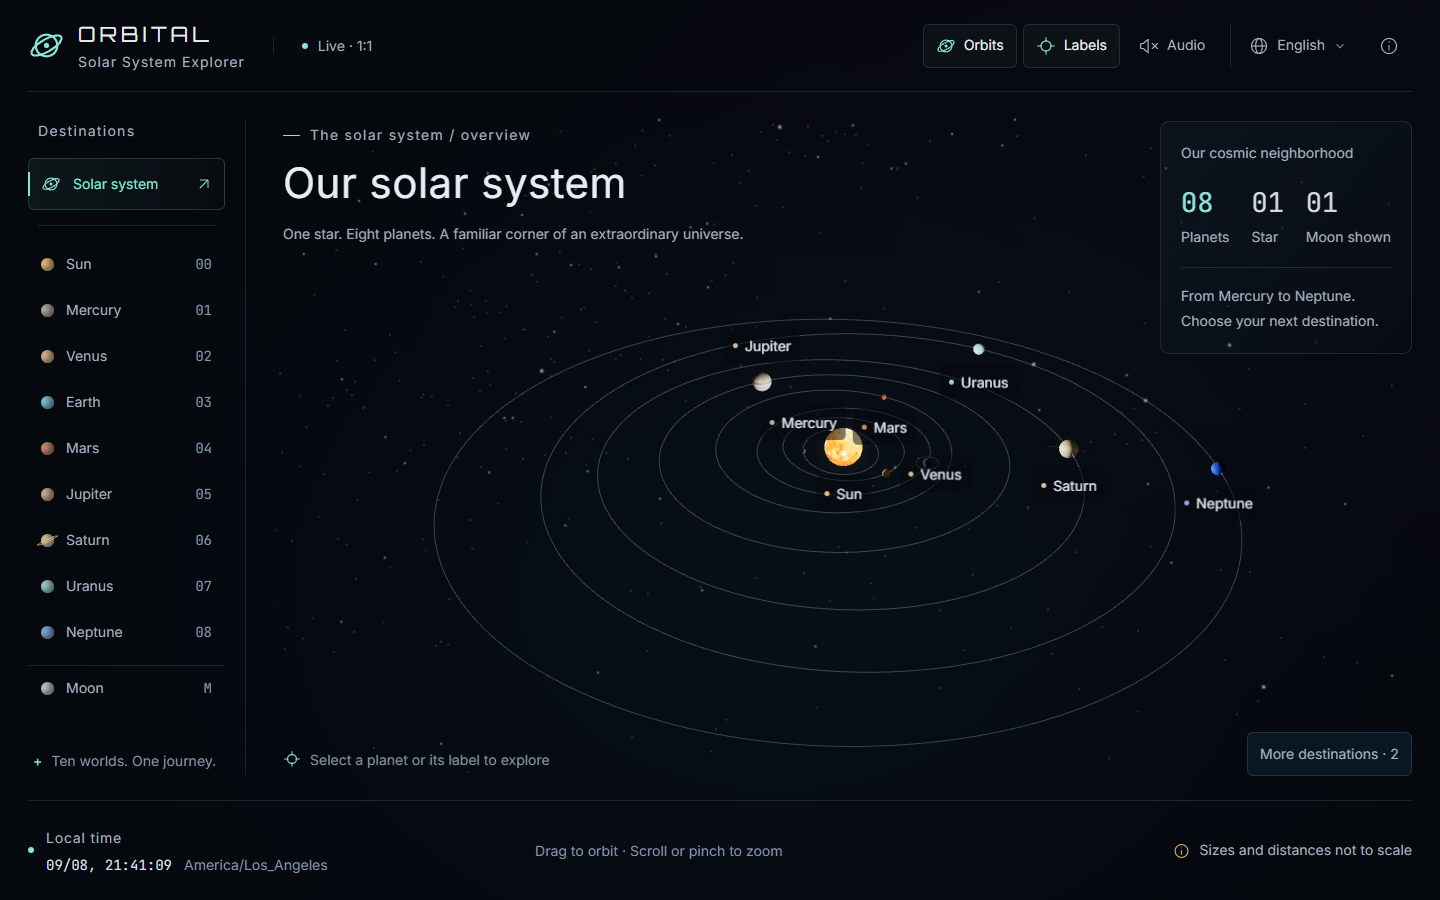
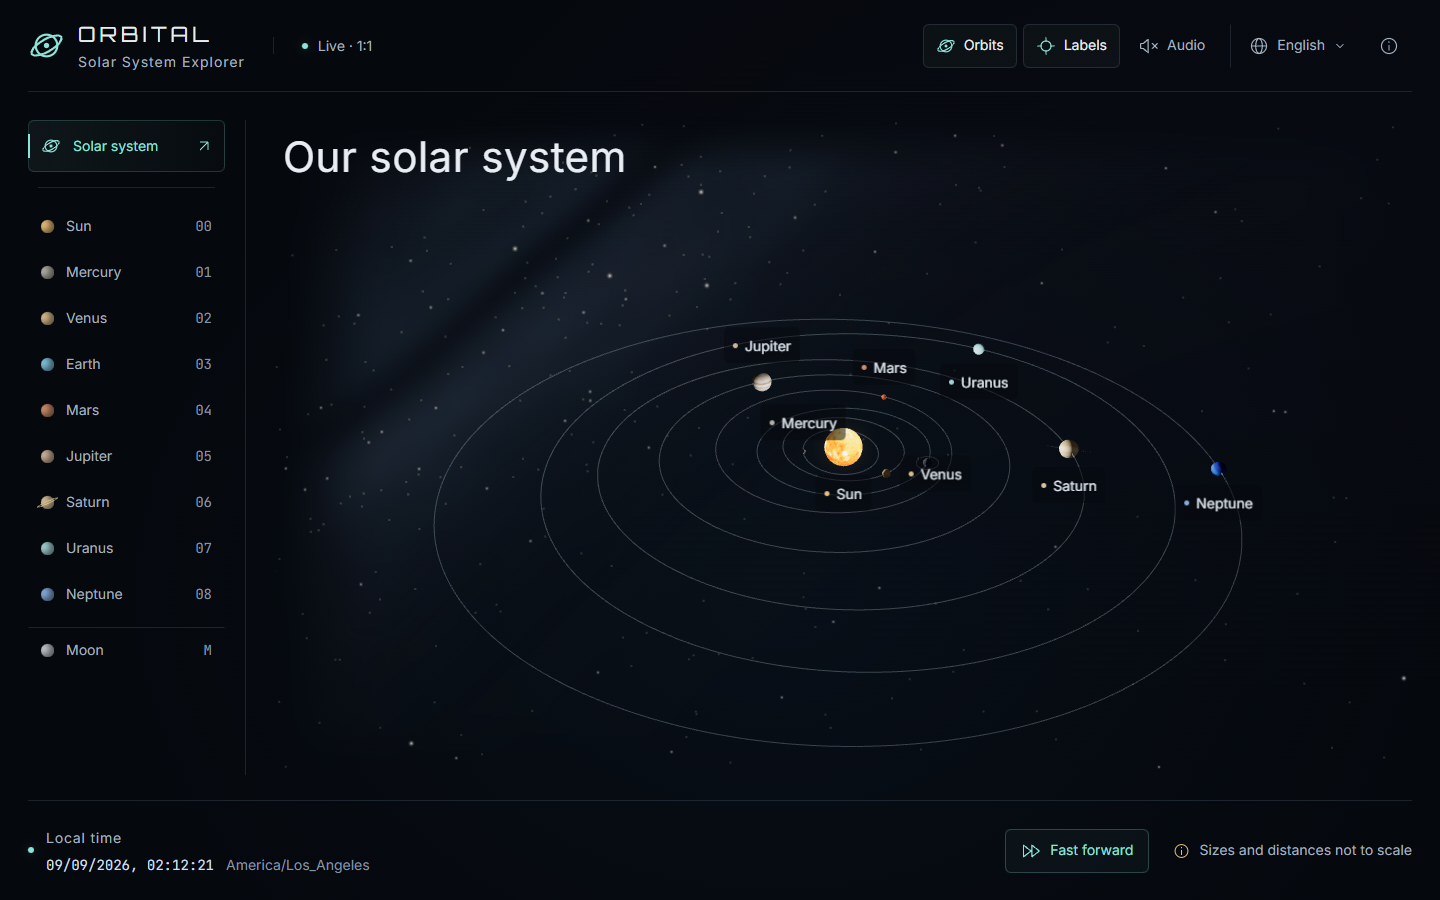
Update controls guide and screenshots

diff --git a/README.md b/README.md
@@ -10,10 +10,10 @@ A quiet window into our solar system. Explore the Sun, all eight planets, and th
 
 Start with the whole solar system, then get closer to any world. Follow Earth's day and night, discover Saturn's rings, or find Neptune on the edge of your view.
 
-- **Real time, 1:1.** Positions and rotation follow your device's clock. Nothing speeds up when you open the page.
+- **Real time or fast forward.** Start at 1:1, or advance 30 days per second. Restore the current time with one click.
 - **Ten destinations.** The Sun, Mercury, Venus, Earth, Mars, Jupiter, Saturn, Uranus, Neptune, and our Moon.
 - **A profile for every world.** Read a short introduction, diameter, orbital period, rotation period, and current distance, with links to the data sources.
-- **A way to find your bearings.** Edge arrows point toward worlds outside your view. Crowded or hidden destinations remain available in the navigation and “More destinations” menu.
+- **A way to find your bearings.** Edge arrows point toward worlds outside your view. Every world remains available in the destination bar.
 - **Your language and local time.** English and Simplified Chinese are included. The language menu supports additional language packs and a “Follow system” setting.
 - **An optional soundtrack.** Turn on the space ambient track, adjust the volume, or enjoy the silence. Music starts only when you ask it to.
 
@@ -23,7 +23,9 @@ Start with the whole solar system, then get closer to any world. Follow Earth's 
 | --- | --- |
 | Visit a world | Select its name in the navigation, click the planet itself, or click its label |
 | Look around | Drag the scene; use the wheel or pinch to zoom |
-| Find another planet | Select an edge arrow or open “More destinations” |
+| Find another planet | Select an edge arrow or use the destination bar |
+| Advance the simulation | Select **Fast forward**; one second advances 30 days |
+| Restore the current time | Select **Back to live** |
 | Return to the full system | Select **Solar system** |
 | Close a profile | Select **×** or press **Esc**; your viewpoint stays in place |
 | Change the language | Open the globe menu and choose a language or **Follow system** |
@@ -45,6 +47,8 @@ On a phone, swipe the destination bar to find more planets. Profiles slide in fr
 
 ## Time, scale, and what you see
 
+Your local clock includes the year and always shows the actual time. Fast forward displays a separate simulated date and advances all rotations, orbits, phases and distances together. “Back to live” restores the current instant.
+
 The same instant produces the same planetary positions everywhere on Earth. Your time zone changes the clock display and the initial Earth viewpoint; it does not move the planets. Earth opens toward a representative location for your time zone, rather than a precise GPS location. Its profile also shows approximate local sunrise, sunset, and the illuminated fraction of the Moon.
 
 **Sizes and distances are scaled separately** so that inner and outer planets can share the screen. Orbit guides follow sampled astronomical positions. Profile distances come from the unscaled coordinates, not from the displayed spacing.
@@ -55,7 +59,7 @@ Astronomical calculations use [Astronomy Engine](https://github.com/cosinekitty/
 
 ## Small details, considered
 
-The interface uses text of at least 14px, visible keyboard focus, styled language and audio controls, and reduced-motion preferences. On slower devices, the scene can lower its rendering resolution while interface text stays sharp. It remembers your language choice and volume. Each new visit starts quietly; background tabs pause rendering and music, and returning synchronizes the scene to the current time.
+The interface uses text of at least 14px, visible keyboard focus, styled language and audio controls, and reduced-motion preferences. On slower devices, the scene can lower its rendering resolution while interface text stays sharp. It remembers your language choice and volume. Each new visit starts quietly; background tabs pause rendering and music, and returning synchronizes the scene to the active clock. Fast forward continues to account for elapsed time while the page is hidden.
 
 A modern browser with **WebGL 2** is required. If the scene cannot start, enable hardware acceleration or try another browser. A failed surface texture does not stop you from navigating the system. All visual assets, fonts, music, and calculations are served with the app; no account, GPS permission, or geolocation service is required.
 
@@ -90,7 +94,7 @@ Code: [MIT](./LICENSE). Third-party assets keep their own licenses.
 - [Three.js](https://threejs.org/) and [Astronomy Engine](https://github.com/cosinekitty/astronomy) — rendering and astronomy, MIT.
 - [NASA / JPL](https://ssd.jpl.nasa.gov/planets/phys_par.html) — physical and orbital reference data.
 - [Solar System Scope](https://www.solarsystemscope.com/textures/) — surface and ring textures, CC BY 4.0, converted to WebP where applicable.
-- [Galactic Temple by yd](https://opengameart.org/content/galactic-temple) — ambient music, CC0.
+- [Adrift Among Infinite Stars by Scott Buckley](https://www.scottbuckley.com.au/library/adrift-among-infinite-stars/) — contemplative piano, synths and strings, CC BY 4.0.
 - Inter, JetBrains Mono, and Orbitron — fonts, SIL Open Font License.
 
 See [Third-party notices](./NOTICES.md) for asset details, changes, and license texts.

diff --git a/README.zh-CN.md b/README.zh-CN.md
@@ -10,10 +10,10 @@
 
 从整个太阳系出发，靠近每一个世界。观察地球的昼夜交替，欣赏土星的光环，或循着视野边缘的方向找到海王星。
 
-- **现实时间，1:1 运行。** 天体位置与自转跟随设备时钟，打开页面不会触发加速。
+- **实时或模拟推进。** 默认按现实时间 1:1 运行；也可每秒推进 30 天，并一键恢复当前时刻。
 - **十个探索目的地。** 太阳、水星、金星、地球、火星、木星、土星、天王星、海王星，以及月球。
 - **每个世界都有档案。** 一句话简介、直径、公转周期、自转周期、当前距离，并附数据来源。
-- **随时找到方向。** 边缘箭头指向视野之外的天体；拥挤或被遮挡的目标仍可通过导航和“更多目的地”访问。
+- **随时找到方向。** 边缘箭头指向视野之外的天体；所有天体均可通过导航访问。
 - **你的语言与当地时间。** 内置中文和英文；语言菜单支持扩展语言包，也可选择“跟随系统”。
 - **可选的太空配乐。** 主动开启环境音乐，调节音量，或保持安静。页面不会自动播放声音。
 
@@ -23,7 +23,9 @@
 | --- | --- |
 | 前往一个世界 | 点击导航中的名称、星球本体或场景标签 |
 | 调整观察角度 | 拖动场景旋转；滚轮或双指缩放 |
-| 寻找其他行星 | 点击屏幕边缘的箭头，或打开“更多目的地” |
+| 寻找其他行星 | 点击屏幕边缘的箭头，或使用天体导航 |
+| 加快时间 | 点击 **模拟推进**，每秒前进约一个月（30 天） |
+| 恢复当前时间 | 点击 **恢复实时** |
 | 回到完整太阳系 | 点击 **太阳系全景** |
 | 关闭档案 | 点击 **×** 或按 **Esc**，当前观察视角会保留 |
 | 切换语言 | 打开地球图标菜单，选择语言或 **跟随系统** |
@@ -45,6 +47,8 @@
 
 ## 时间、比例与画面
 
+本地时钟包含年份，始终显示真实时间。开启模拟推进后会另行显示模拟日期，自转、公转、月相和距离同步变化；点击“恢复实时”即可回到当前时刻。
+
 同一时刻，世界各地访问者看到的天体位置相同。时区只影响时间显示和地球的初始观察方向，不会改变行星轨道。地球视角采用所在时区的代表地点，并非精确 GPS 定位；资料卡还会显示该观察点附近的日出、日落时间和月面照明比例。
 
 **天体大小与轨道距离分别缩放**，让内外行星可以清晰地出现在同一画面中。轨道线根据天文位置采样生成。资料卡里的实际距离取自未经缩放的坐标，不是画面中的视觉间距。
@@ -55,7 +59,7 @@
 
 ## 一些使用细节
 
-全站文字不低于 14px，支持可见的键盘焦点、定制语言与声音控件，以及系统减少动态效果的偏好。较慢的设备会自动降低三维画面分辨率，界面文字保持清晰。页面会记住手动语言选择和音量；每次新访问默认安静。切到后台时暂停渲染与音乐，返回后重新同步当前时间。
+全站文字不低于 14px，支持可见的键盘焦点、定制语言与声音控件，以及系统减少动态效果的偏好。较慢的设备会自动降低三维画面分辨率，界面文字保持清晰。页面会记住手动语言选择和音量；每次新访问默认安静。切到后台时暂停渲染与音乐，返回后同步所选时钟；模拟模式会计入离开页面期间经过的时间。
 
 需要支持 **WebGL 2** 的现代浏览器。如果无法显示场景，可启用硬件加速或换一个浏览器。部分纹理加载失败时仍可继续探索。图片、字体、音乐和计算均随应用提供，无需注册账号、GPS 授权或调用定位服务。
 
@@ -91,7 +95,7 @@ pnpm preview
 - [Three.js](https://threejs.org/) 与 [Astronomy Engine](https://github.com/cosinekitty/astronomy)：三维渲染与天文计算，MIT。
 - [NASA / JPL](https://ssd.jpl.nasa.gov/planets/phys_par.html)：物理参数与轨道参考数据。
 - [Solar System Scope](https://www.solarsystemscope.com/textures/)：天体与光环纹理，CC BY 4.0；适用文件已转为 WebP。
-- [yd 的 Galactic Temple](https://opengameart.org/content/galactic-temple)：环境音乐，CC0。
+- [Scott Buckley 的 Adrift Among Infinite Stars](https://www.scottbuckley.com.au/library/adrift-among-infinite-stars/)：舒缓的钢琴、合成器与弦乐，CC BY 4.0。
 - Inter、JetBrains Mono、Orbitron：字体，SIL Open Font License。
 
 素材清单、修改说明和许可证全文见 [第三方授权说明](./NOTICES.md)。

diff --git a/NOTICES.md b/NOTICES.md
@@ -37,12 +37,14 @@ Assets are in `public/textures/`. Their in-app appearance is modified by lightin
 
 ## Music
 
-**[Galactic Temple](https://opengameart.org/content/galactic-temple)** by [yd](https://opengameart.org/users/yd), published August 8, 2013.
+**[Adrift Among Infinite Stars](https://www.scottbuckley.com.au/library/adrift-among-infinite-stars/)** by Scott Buckley, published February 19, 2022.
 
-The source page declares [CC0 1.0 Universal](https://creativecommons.org/publicdomain/zero/1.0/).
-The original `GalacticTemple.ogg` is distributed as `public/audio/galactic-temple.ogg`.
-`galactic-temple.mp3` is a format conversion of the same recording for browser compatibility.
-The composition is unchanged; the app loops playback and applies the user's volume setting.
+'Adrift Among Infinite Stars' by Scott Buckley - released under CC-BY 4.0. www.scottbuckley.com.au
+
+License: [Creative Commons Attribution 4.0 International](https://creativecommons.org/licenses/by/4.0/).
+The full recording is re-encoded as `public/audio/adrift-among-infinite-stars.mp3` for web delivery.
+The composition and duration are unchanged; playback loops and uses the listener's volume setting.
+The application credits the title, artist and license in its audio panel. This does not imply endorsement.
 
 ## Fonts
 
@@ -64,4 +66,4 @@ These font packages are supplied by Fontsource. Font files themselves are not mo
 - [JPL Horizons API](https://ssd-api.jpl.nasa.gov/doc/horizons.html): independent geometric position samples in `tests/astronomy/jpl-samples.json`. The fixture records its reference frame, units, timescale, and retrieval date. These are test data, not a live runtime dependency.
 - [Astronomy Engine rotation reference](https://github.com/cosinekitty/astronomy/tree/master/source/js#rotationaxisbody-date--axisinfo): IAU-based orientation and rotation models.
 
-The decorative star field, interface graphics, and corona gradient are generated by application code. They are not a catalog of measured stars.
+The decorative star field, procedural galaxy and dust lanes, interface graphics, and corona gradient are generated by application code. They are not a catalog of measured stars.
